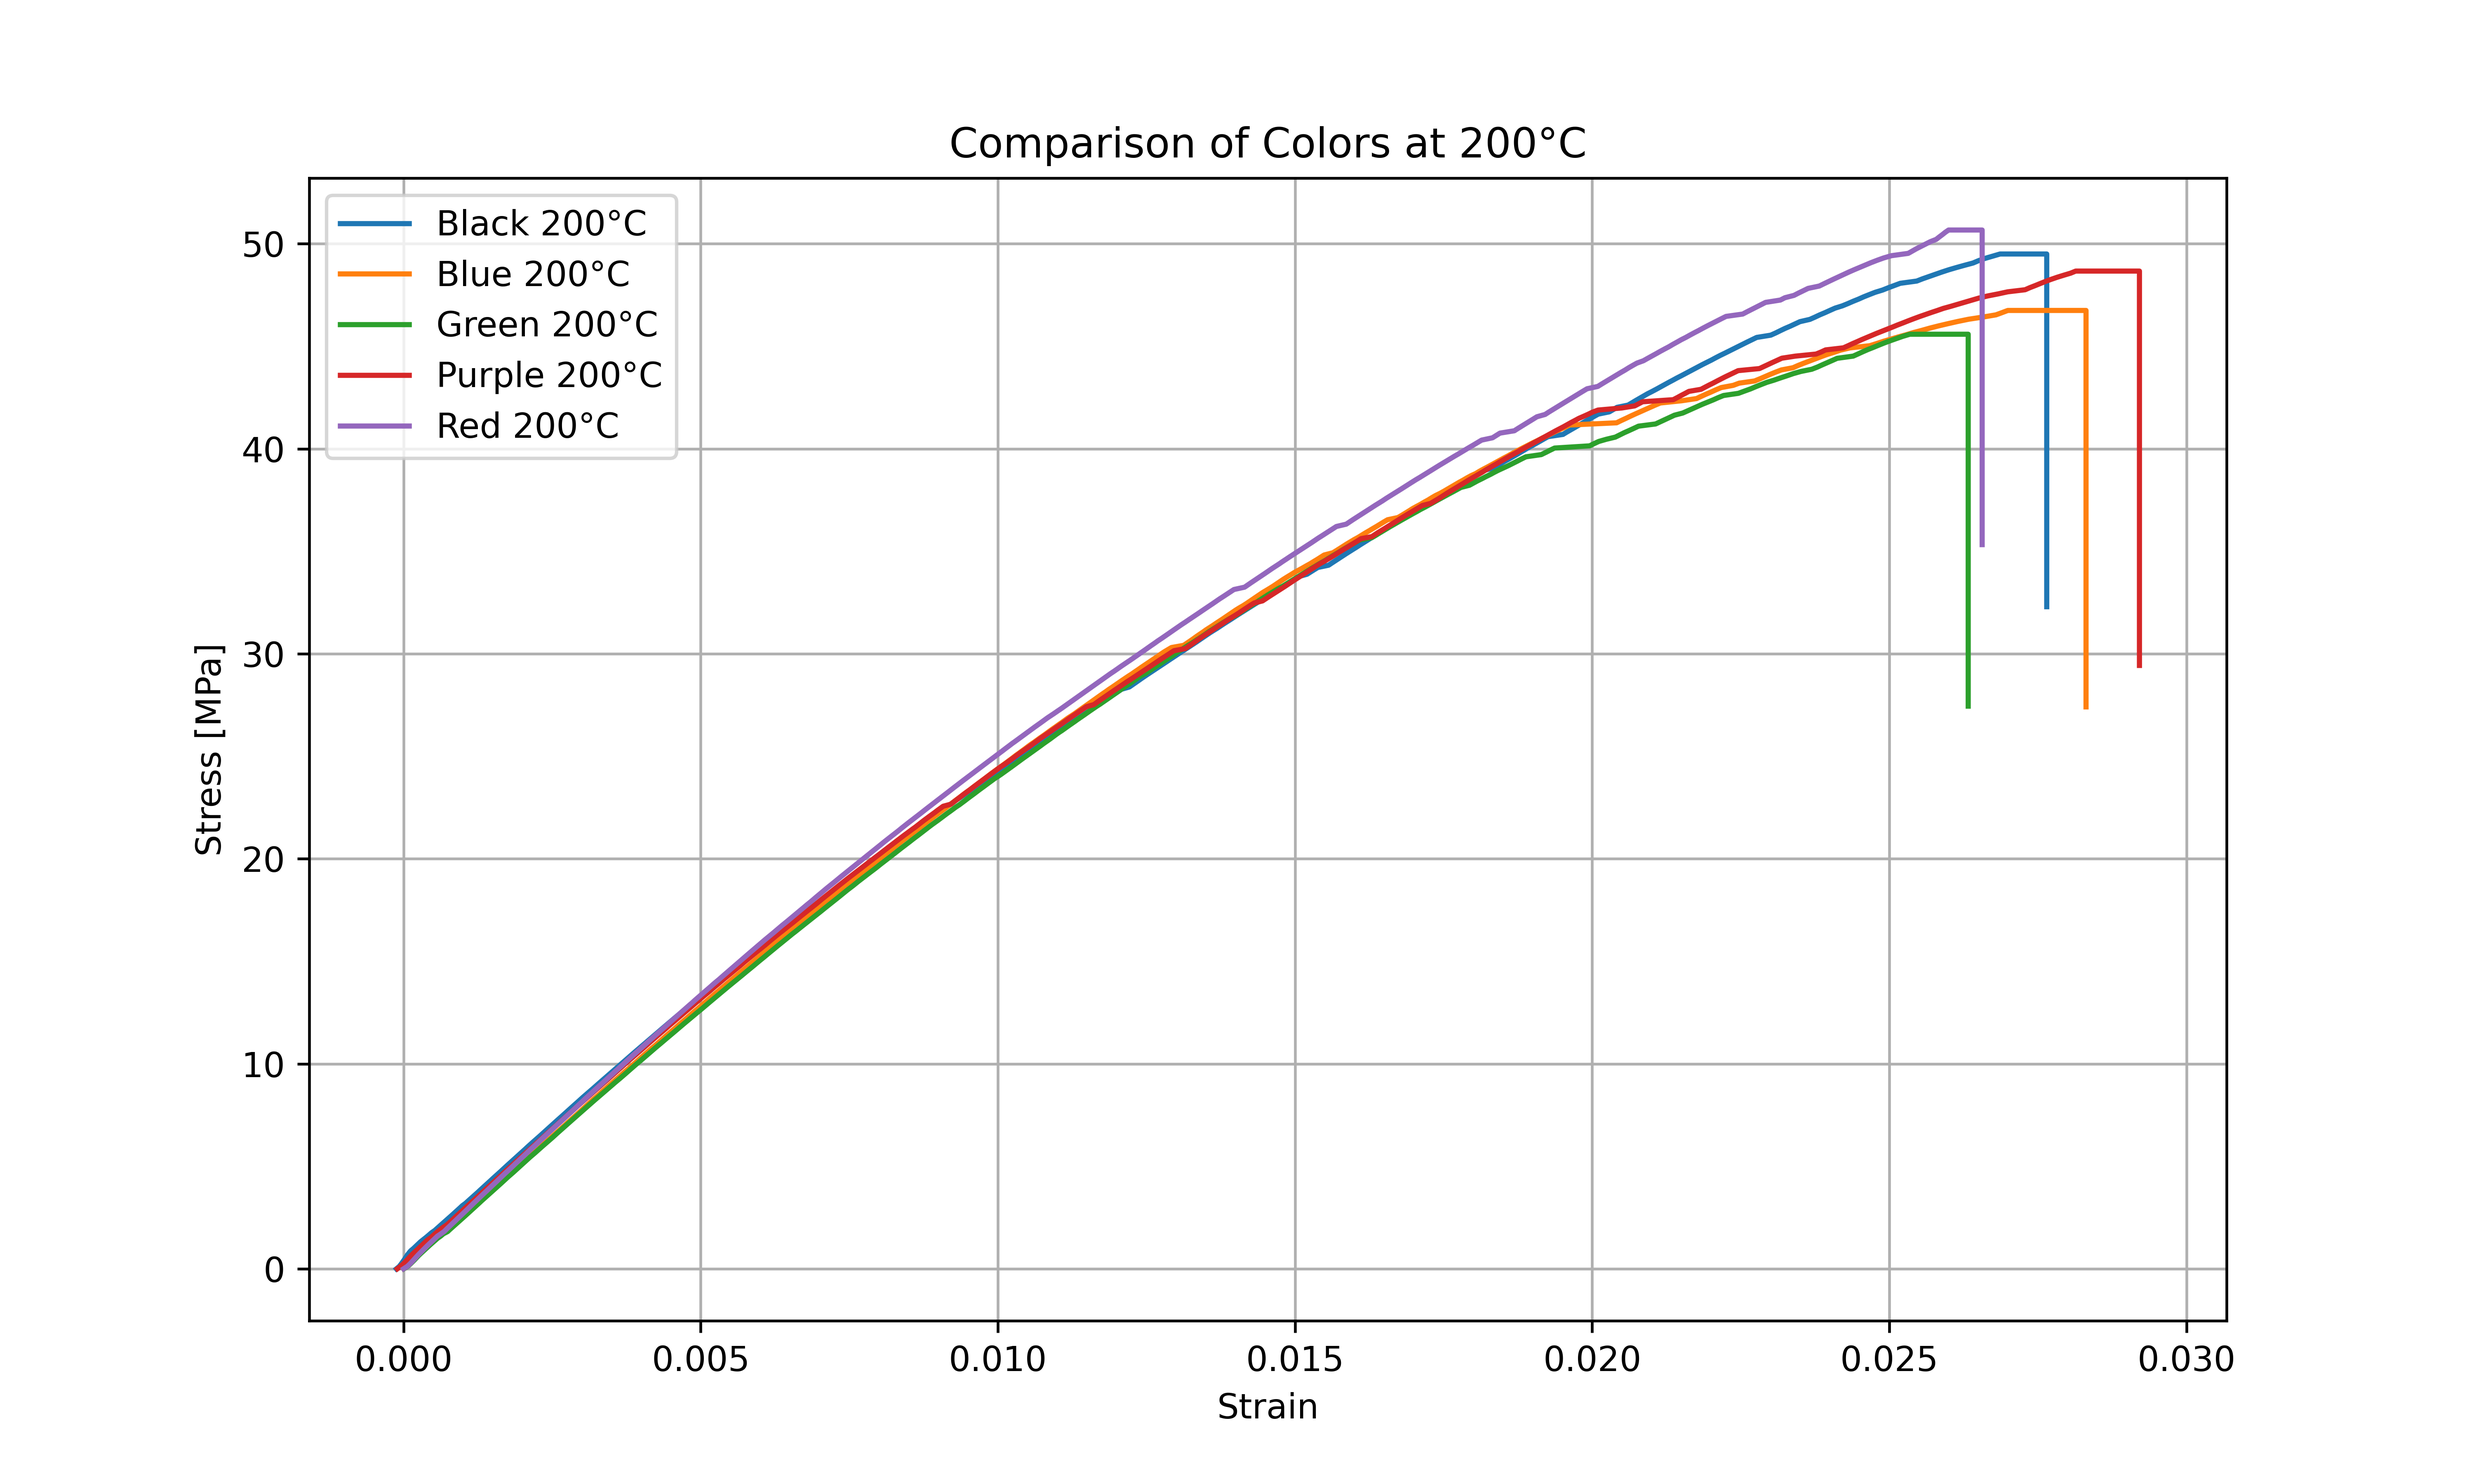
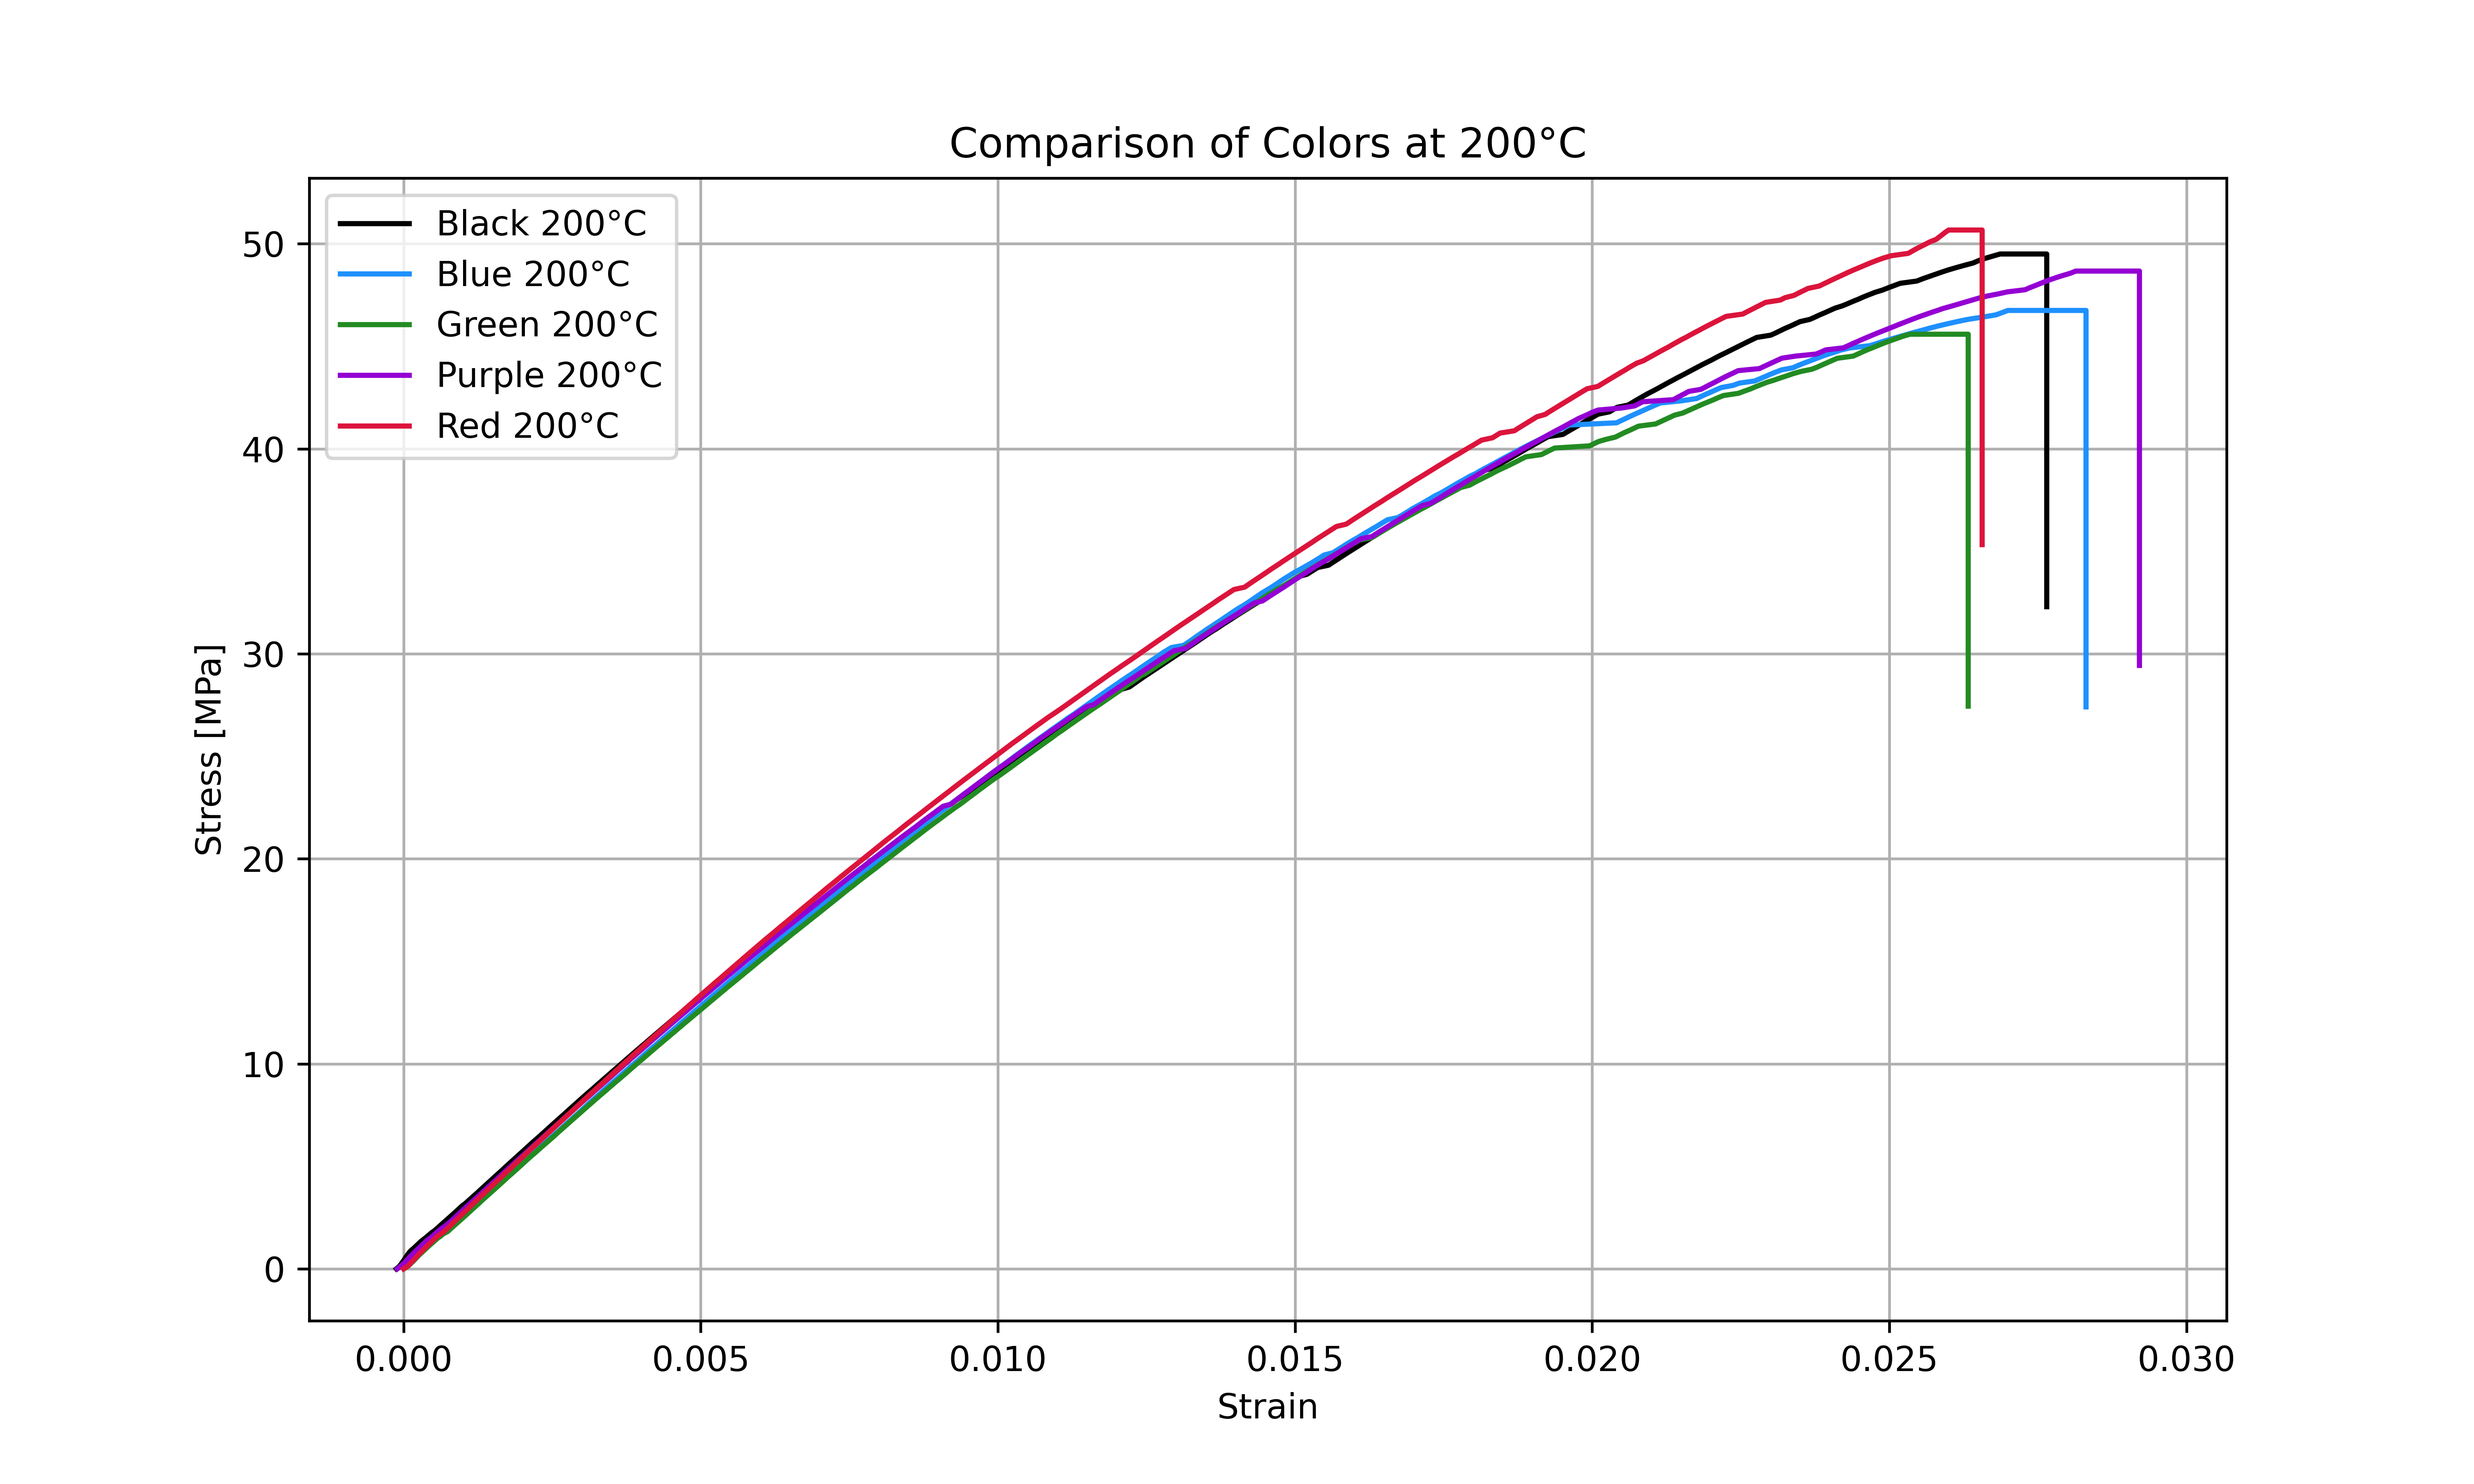
Changed the colors on the average comparison graphs

diff --git a/Data_Processing/Tensile-Part5-AverageCurve_Comparison.py b/Data_Processing/Tensile-Part5-AverageCurve_Comparison.py
@@ -42,7 +42,11 @@ temp_groups = {
 #                   'Purple_200C', 'Red_200C'],
 # }
 
+# Color Order: Black (#17202a), Blue (#1f618d), Green (#1e8449),
+#               Purple (#6c3483), Red (#a93226)
+color_order = ['black', 'dodgerblue', 'forestgreen', 'darkviolet', 'crimson']
 
+''' Main Code '''
 for temp_group, category in temp_groups.items():
     # Folder name containing CSV files for tensile test results
     data_folder = "Average-Tensile-Graphs"
@@ -56,6 +60,8 @@ for temp_group, category in temp_groups.items():
     # Initializing a figure
     plt.figure(figsize=(10, 6))
 
+    # Note: Graphing Black, Blue, Green, Purple and then Red
+
     for i, combination in enumerate(category):
         # Curve Description
         color_temp = f"{combination}"
@@ -65,7 +71,8 @@ for temp_group, category in temp_groups.items():
 
         [current_stress, current_strain] = stress_strain_from_csv(file_path)
 
-        plt.plot(current_strain, current_stress, label=curve_description)
+        plt.plot(current_strain, current_stress,
+                 label=curve_description, color=color_order[i])
 
     # Labeling
     plt.title(graph_description)
